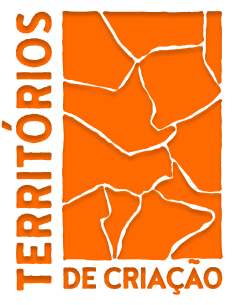
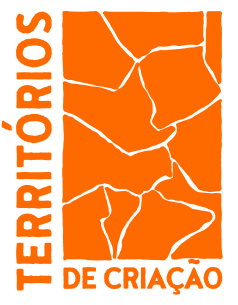
ajustes de fonte, imagens, sombreamento

diff --git a/quemsomos.css b/quemsomos.css
@@ -14,7 +14,7 @@
 .quem h1{
   color: rgba(251, 108, 4, 0.88);
 text-align: center;
-text-shadow: 0px 4px 4px rgba(0, 0, 0, 0.25);
+/* text-shadow: 0px 4px 4px rgba(0, 0, 0, 0.25); */
 font-family: "Source Sans Pro", monospace;
 font-size: 33px;
 font-style: normal;
@@ -44,14 +44,13 @@ line-height: normal;
 .quem p{
   color: #000;
 text-align: center;
-text-shadow: 0px 4px 4px rgba(0, 0, 0, 0.25);
+/* text-shadow: 0px 4px 4px rgba(0, 0, 0, 0.25); */
 font-family: "Source Sans Pro", monospace;
 font-size: 21px;
 font-style: normal;
 font-weight: 400;
 line-height: normal;
 width: 390px;
-
 padding-top: 45px;
 }
 
@@ -80,8 +79,8 @@ padding-top: 45px;
 .mercurio h2, .poc h2{
   color: #FB6C04;
   text-align: center;
-  font-family: "Source Code Variable", sans-serif;
-  font-size: 40px;
+  font-family: "Source Code Pro", monospace;
+    font-size: 40px;
   font-style: normal;
   font-weight: 700;
   line-height: normal;
@@ -91,7 +90,7 @@ padding-top: 45px;
 
 .mercurio span, .poc span{
   color: #000;
-font-family: "Source Code Pro", monospace;
+  font-family: "Source Code Variable", sans-serif;
 font-size: 32px;
 font-style: normal;
 font-weight: 400;
@@ -262,7 +261,7 @@ height: 305px;
   color: rgba(251, 108, 4, 0.88);
 width: 100%;
 text-align: center;
-text-shadow: 0px 4px 4px rgba(0, 0, 0, 0.25);
+/* text-shadow: 0px 4px 4px rgba(0, 0, 0, 0.25); */
 font-family: "Source Sans Pro", monospace;
 font-size: 50px;
 font-style: normal;
@@ -292,7 +291,7 @@ line-height: normal;
 .quem p{
   color: #000;
 text-align: left;
-text-shadow: 0px 4px 4px rgba(0, 0, 0, 0.25);
+/* text-shadow: 0px 4px 4px rgba(0, 0, 0, 0.25); */
 font-family: "Source Sans Pro", monospace;
 font-size: 25px;
 font-style: normal;
@@ -479,7 +478,7 @@ height: 247px;
   color: rgba(251, 108, 4, 0.88);
 width: 100%;
 text-align: center;
-text-shadow: 0px 4px 4px rgba(0, 0, 0, 0.25);
+/* text-shadow: 0px 4px 4px rgba(0, 0, 0, 0.25); */
 font-family: "Source Sans Pro", monospace;
 font-size: 50px;
 font-style: normal;
@@ -507,7 +506,7 @@ line-height: normal;
 .quem p{
   color: #000;
 text-align: left;
-text-shadow: 0px 4px 4px rgba(0, 0, 0, 0.25);
+/* text-shadow: 0px 4px 4px rgba(0, 0, 0, 0.25); */
 font-family: "Source Sans Pro", monospace;
 font-size: 25px;
 font-style: normal;

diff --git a/publi.css b/publi.css
@@ -21,7 +21,7 @@ html, body{
   color: rgba(251, 108, 4, 0.88);
 
   text-align: center;
-  text-shadow: 0px 4px 4px rgba(0, 0, 0, 0.25);
+  /* text-shadow: 0px 4px 4px rgba(0, 0, 0, 0.25); */
   font-family: "Source Sans Pro", monospace;
   font-size: 30px;
   font-style: normal;
@@ -51,7 +51,7 @@ html, body{
 .publicacao p {
   color: #000;
   text-align: left;
-  text-shadow: 0px 4px 4px rgba(0, 0, 0, 0.25);
+  /* text-shadow: 0px 4px 4px rgba(0, 0, 0, 0.25); */
   font-family: "Source Sans Pro", monospace;
   font-size: 20px;
   font-style: normal;
@@ -67,7 +67,7 @@ html, body{
 
   color: #2A2A2A;
   text-align: center;
-  text-shadow: 0px 4px 4px rgba(0, 0, 0, 0.25);
+  /* text-shadow: 0px 4px 4px rgba(0, 0, 0, 0.25); */
   font-family: "Source Code Variable", sans-serif;
   font-size: 50px;
   font-style: normal;
@@ -79,7 +79,7 @@ html, body{
 .bolsistasSpan1 {
   color: rgba(251, 108, 4, 0.88);
   text-align: center;
-  text-shadow: 0px 4px 4px rgba(0, 0, 0, 0.25);
+  /* text-shadow: 0px 4px 4px rgba(0, 0, 0, 0.25); */
   font-family: "Source Sans Pro", monospace;
   font-size: 55px;
   font-style: normal;
@@ -347,7 +347,7 @@ html, body{
   .publicacao p {
     color: #000;
     text-align: left;
-    text-shadow: 0px 4px 4px rgba(0, 0, 0, 0.25);
+    /* text-shadow: 0px 4px 4px rgba(0, 0, 0, 0.25); */
     font-family: "Source Sans Pro", monospace;
     font-size: 25px;
     font-style: normal;

diff --git a/formacao.css b/formacao.css
@@ -15,7 +15,7 @@ html, body{
 .formacao h1 {
   color: rgba(251, 108, 4, 0.88);
   text-align: center;
-  text-shadow: 0px 4px 4px rgba(0, 0, 0, 0.25);
+  /* text-shadow: 0px 4px 4px rgba(0, 0, 0, 0.25); */
   font-family: "Source Sans Pro", monospace;
   font-size: 30px;
   font-style: normal;
@@ -45,7 +45,7 @@ html, body{
 .formacao p {
   color: #000;
   text-align: left;
-  text-shadow: 0px 4px 4px rgba(0, 0, 0, 0.25);
+  /* text-shadow: 0px 4px 4px rgba(0, 0, 0, 0.25); */
   font-family: "Source Sans Pro", monospace;
   font-size: 20px;
   font-style: normal;
@@ -61,7 +61,7 @@ html, body{
 
   color: #2A2A2A;
   text-align: center;
-  text-shadow: 0px 4px 4px rgba(0, 0, 0, 0.25);
+  /* text-shadow: 0px 4px 4px rgba(0, 0, 0, 0.25); */
   font-family: "Source Code Variable", sans-serif;
   font-size: 50px;
   font-style: normal;
@@ -73,7 +73,7 @@ html, body{
 .bolsistasSpan1 {
   color: rgba(251, 108, 4, 0.88);
   text-align: center;
-  text-shadow: 0px 4px 4px rgba(0, 0, 0, 0.25);
+  /* text-shadow: 0px 4px 4px rgba(0, 0, 0, 0.25); */
   font-family: "Source Sans Pro", monospace;
   font-size: 55px;
   font-style: normal;
@@ -342,7 +342,7 @@ html, body{
   .formacao p {
     color: #000;
     text-align: left;
-    text-shadow: 0px 4px 4px rgba(0, 0, 0, 0.25);
+    /* text-shadow: 0px 4px 4px rgba(0, 0, 0, 0.25); */
     font-family: "Source Sans Pro";
     font-size: 25px;
     font-style: normal;

diff --git a/edtais.css b/edtais.css
@@ -15,7 +15,7 @@ html, body{
 .editais h1 {
   color: rgba(251, 108, 4, 0.88);
   text-align: center;
-  text-shadow: 0px 4px 4px rgba(0, 0, 0, 0.25);
+  /* text-shadow: 0px 4px 4px rgba(0, 0, 0, 0.25); */
   font-family: "Source Sans Pro", monospace;
   font-size: 30px;
   font-style: normal;
@@ -45,7 +45,7 @@ html, body{
 .editais p {
   color: #000;
   text-align: left;
-  text-shadow: 0px 4px 4px rgba(0, 0, 0, 0.25);
+  /* text-shadow: 0px 4px 4px rgba(0, 0, 0, 0.25); */
   font-family: "Source Sans Pro";
   font-size: 20px;
   font-style: normal;
@@ -143,7 +143,7 @@ padding-bottom: 2rem;
 .title {
   color: rgba(251, 108, 4, 0.88);
 text-align: center;
-  text-shadow: 0px 4px 4px rgba(0, 0, 0, 0.25);
+  /* text-shadow: 0px 4px 4px rgba(0, 0, 0, 0.25); */
   font-family: "Source Sans Pro", monospace;
   font-size: 32px;
   font-style: normal;
@@ -266,7 +266,7 @@ text-align: center;
   .editais p {
     color: #000;
     text-align: left;
-    text-shadow: 0px 4px 4px rgba(0, 0, 0, 0.25);
+    /* text-shadow: 0px 4px 4px rgba(0, 0, 0, 0.25); */
     font-family: "Source Sans Pro", monospace;
     font-size: 25px;
     font-style: normal;

diff --git a/projeto.css b/projeto.css
@@ -16,8 +16,8 @@ html, body{
   color: rgba(251, 108, 4, 0.88);
 margin-left: 2.5rem;
 text-align: center;
-text-shadow: 0px 4px 4px rgba(0, 0, 0, 0.25);
-font-family: "Source Sans Pro";
+/* text-shadow: 0px 4px 4px rgba(0, 0, 0, 0.25); */
+font-family: "Source Sans Pro", monospace;
 font-size: 50px;
 font-style: normal;
 font-weight: 600;
@@ -25,7 +25,7 @@ font-weight: 600;
 
 .spanText{
   color: #3F3F3F;
-font-family: "Source Code Variable";
+font-family: "Source Code Variable", sans-serif;
 font-size: 44px;
 font-style: normal;
 font-weight: 300;
@@ -34,7 +34,7 @@ line-height: normal;
 
 .spanText2{
   color: #3F3F3F;
-font-family: "Source Code Variable";
+font-family: "Source Code Variable", sans-serif;
 font-size: 44px;
 font-style: normal;
 font-weight: 600;
@@ -44,8 +44,8 @@ line-height: normal;
 .projeto p{
   color: #000;
 text-align: left;
-text-shadow: 0px 4px 4px rgba(0, 0, 0, 0.25);
-font-family: "Source Sans Pro";
+/* text-shadow: 0px 4px 4px rgba(0, 0, 0, 0.25); */
+font-family: "Source Sans Pro", monospace;
 font-size: 21px;
 font-style: normal;
 font-weight: 400;

diff --git a/style.css b/style.css
@@ -12,10 +12,10 @@
 .criacao h1 {
   display: none;
   color: #FB6C04;
-  font-family: "Source Code Pro",monospace;
+  font-family: "Source Code Pro black",monospace;
   font-size: 145px;
   font-style: normal;
-  font-weight: 800;
+  font-weight: 900;
   line-height: normal;
   padding-top: 15rem;
   padding-left: 0.5em;
@@ -27,6 +27,7 @@
   padding-left: 0.2em;
   font-weight: 800;
   width: 252px;
+ 
 }
 
 .criacao h2 {
@@ -34,13 +35,13 @@
   font-family: Source Sans Pro ExtraLight, monospace;
   font-size: 50px;
   padding-left: 0.2em;
+  margin-top: -2rem;
 }
 
 .criacao p {
   color: #FFF;
   font-family: "Source Code Variable", sans-serif;
   font-size: 20px;
-  padding-left: 0.2em;
   font-weight: 500;
   width: 345px;
   padding-left: 0.5em;
@@ -60,7 +61,7 @@
 .bemvindo h3 {
   color: #000;
   text-align: center;
-  text-shadow: 0px 4px 4px rgba(0, 0, 0, 0.25);
+  /* text-shadow: 0px 4px 4px rgba(0, 0, 0, 0.25); */
   font-family: "Source Sans Pro", monospace;
   font-size: 50px;
   font-style: normal;

diff --git a/index.html b/index.html
@@ -112,8 +112,8 @@
 
       <section class="bemvindo">
         <h3>
-          Bem-vindo ao <span class="span1">Territórios</span>
-          <span class="span2">de Criação</span>, onde a arte e a cultura se
+          Bem-vindo ao <span class="span1">Territórios  de Criação</span>
+          , onde a arte e a cultura se
           fortalecem em todo o Ceará, em conexão com o Brasil e o mundo!
         </h3>
       </section>
